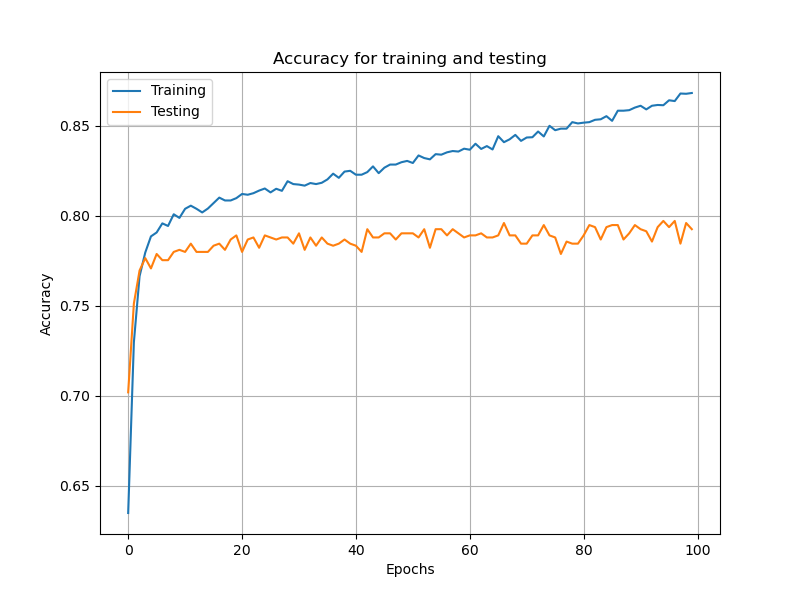
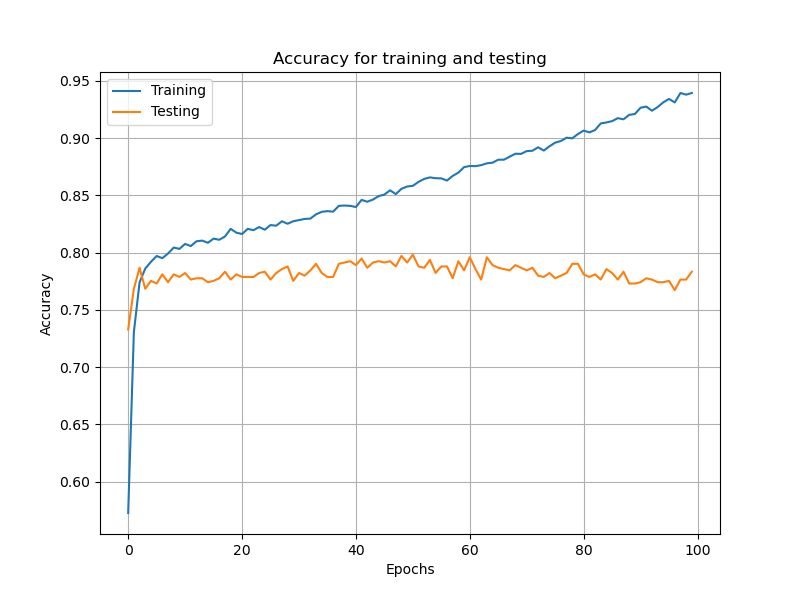
implemented DAN with pretrain

diff --git a/CSE256_PA1_FA24/CSE256_PA1_FA24/main.py b/CSE256_PA1_FA24/CSE256_PA1_FA24/main.py
@@ -4,7 +4,7 @@ import torch
 from torch import nn
 import torch.nn.functional as F
 from sklearn.feature_extraction.text import CountVectorizer
-from sentiment_data import read_sentiment_examples
+from sentiment_data import read_sentiment_examples, read_word_embeddings
 from torch.utils.data import Dataset, DataLoader
 import time
 import argparse
@@ -21,7 +21,8 @@ def train_epoch(data_loader, model, loss_fn, optimizer):
     model.train()
     train_loss, correct = 0, 0
     for batch, (X, y) in enumerate(data_loader):
-        X = X.float()
+        if not isinstance(model, DAN):
+            X = X.float()
 
         # Compute prediction error
         pred = model(X)
@@ -47,7 +48,8 @@ def eval_epoch(data_loader, model, loss_fn, optimizer):
     eval_loss = 0
     correct = 0
     for batch, (X, y) in enumerate(data_loader):
-        X = X.float()
+        if not isinstance(model, DAN):
+            X = X.float()
 
         # Compute prediction error
         pred = model(X)
@@ -85,27 +87,12 @@ def main():
     # Set up argument parser
     parser = argparse.ArgumentParser(description='Run model training based on specified model type')
     parser.add_argument('--model', type=str, required=True, help='Model type to train (e.g., BOW)')
-
     # Parse the command-line arguments
     args = parser.parse_args()
 
-    # # Load dataset
-    # start_time = time.time()
-
-    # train_data = SentimentDatasetBOW("data/train.txt")
-    # dev_data = SentimentDatasetBOW("data/dev.txt")
-    # train_loader = DataLoader(train_data, batch_size=16, shuffle=True)
-    # test_loader = DataLoader(dev_data, batch_size=16, shuffle=False)
-
-    # end_time = time.time()
-    # elapsed_time = end_time - start_time
-    # print(f"Data loaded in : {elapsed_time} seconds")
-
-    # Check if the model type is "BOW"
     if args.model == "BOW":
         # Load dataset
         start_time = time.time()
-
         train_data = SentimentDatasetBOW("data/train.txt")
         dev_data = SentimentDatasetBOW("data/dev.txt")
         train_loader = DataLoader(train_data, batch_size=16, shuffle=True)
@@ -157,23 +144,25 @@ def main():
         # plt.show()
 
     elif args.model == "DAN":
-        # Load dataset
+        # Start the timer to measure load time
         start_time = time.time()
 
-        train_data = SentimentDatasetDAN("data/train.txt", "data/glove.6B.300d-relativized.txt")
-        dev_data = SentimentDatasetDAN("data/dev.txt", "data/glove.6B.300d-relativized.txt")
-        train_loader = DataLoader(train_data, batch_size=16, shuffle=True)
-        test_loader = DataLoader(dev_data, batch_size=16, shuffle=False)
+        # Load word embeddings
+        word_embeddings = read_word_embeddings("data/glove.6B.300d-relativized.txt")
 
-        end_time = time.time()
-        elapsed_time = end_time - start_time
-        print(f"Data loaded in : {elapsed_time} seconds")
+        # Load training and development datasets
+        train_data = SentimentDatasetDAN("data/train.txt", word_embeddings)
+        dev_data = SentimentDatasetDAN("data/dev.txt", word_embeddings)
 
-        inp_size = 300
+        # Create data loaders with the custom collate function
+        train_loader = DataLoader(train_data, batch_size=16, shuffle=True, collate_fn=train_data.collate_fn)
+        test_loader = DataLoader(dev_data, batch_size=16, shuffle=False, collate_fn=dev_data.collate_fn)
+
+        embed_size = 300
         # Train and evaluate DAN
         start_time = time.time()
         print('DAN with Pretraining:')
-        DAN_train_accuracy, DAN_test_accuracy = experiment(DAN(input_size=inp_size, hidden_size=100), train_loader, test_loader)
+        DAN_train_accuracy, DAN_test_accuracy = experiment(DAN(embed_size=embed_size, hidden_size=100, word_embed=word_embeddings), train_loader, test_loader)
 
         # Plot the training and testing accuracy
         plt.figure(figsize=(8, 6))

diff --git a/CSE256_PA1_FA24/CSE256_PA1_FA24/DANmodels.py b/CSE256_PA1_FA24/CSE256_PA1_FA24/DANmodels.py
@@ -1,46 +1,52 @@
 # models.py
 
 import torch
-import numpy as np
 from torch import nn
 import torch.nn.functional as F
-from sklearn.feature_extraction.text import CountVectorizer
-from sentiment_data import read_sentiment_examples, read_word_embeddings, WordEmbeddings
+from sentiment_data import read_sentiment_examples
 from torch.utils.data import Dataset
+from torch.nn.utils.rnn import pad_sequence
+from utils import *
 
 class SentimentDatasetDAN(Dataset):
-    def __init__(self, infile, embed_file):
+    def __init__(self, infile, word_embed):
         self.examples = read_sentiment_examples(infile)
-        self.word_embeddings = read_word_embeddings(embed_file)
-
-        self.sentences = []
-        # append averaged embedding
-        for ex in self.examples:
-            sentence = [self.word_embeddings.get_embedding(w) for w in ex.words]
-            self.sentences.append(sum(sentence) / len(sentence))
-
-        self.labels = [ex.label for ex in self.examples]
-
-        self.embeddings = torch.tensor(np.array(self.sentences), dtype=torch.float32)
-        self.labels = torch.tensor(self.labels, dtype=torch.long)
-
+        self.word_embed = word_embed
+        self.labels = torch.tensor([ex.label for ex in self.examples], dtype=torch.long)
+        self.indices = [torch.tensor([self.word_embed.word_indexer.index_of(w) if self.word_embed.word_indexer.index_of(w) != -1 else self.word_embed.word_indexer.index_of("UNK")
+                                      for w in ex.words], dtype=torch.long) for ex in self.examples]
+        
     def __len__(self):
         return len(self.examples)
     
     def __getitem__(self, idx):
-        return self.embeddings[idx], self.labels[idx]
+        return self.indices[idx], self.labels[idx]
+    
+    def collate_fn(self, batch):
+        indices, labels = zip(*batch)
+        indices_padded = pad_sequence(indices, batch_first=True, padding_value=0)  # PAD index assumed to be 0
+        labels = torch.tensor(labels, dtype=torch.long)
+        return indices_padded, labels
+        
 
 
 class DAN(nn.Module):
-    def __init__(self, input_size, hidden_size):
+    def __init__(self, embed_size, hidden_size, word_embed):
         super().__init__()
-        self.fc1 = nn.Linear(input_size, hidden_size)
-        self.fc2 = nn.Linear(hidden_size, 2)
+        # Using pretrained initialization
+        self.embeddings = word_embed.get_initialized_embedding_layer()
+
+        self.fc1 = nn.Linear(embed_size, hidden_size)
+        self.fc2 = nn.Linear(hidden_size, hidden_size)
+        self.fc3 = nn.Linear(hidden_size, 2)  # Output size for binary classification
         self.log_softmax = nn.LogSoftmax(dim=1)
 
     def forward(self, x):
+        x = self.embeddings(x)
+        x = x.mean(dim=1)  # Average embeddings to get a fixed-size vector
         x = F.relu(self.fc1(x))
-        x = self.fc2(x)
+        x = F.relu(self.fc2(x))
+        x = self.fc3(x)  # Remove ReLU here before log softmax
         x = self.log_softmax(x)
         return x
     
